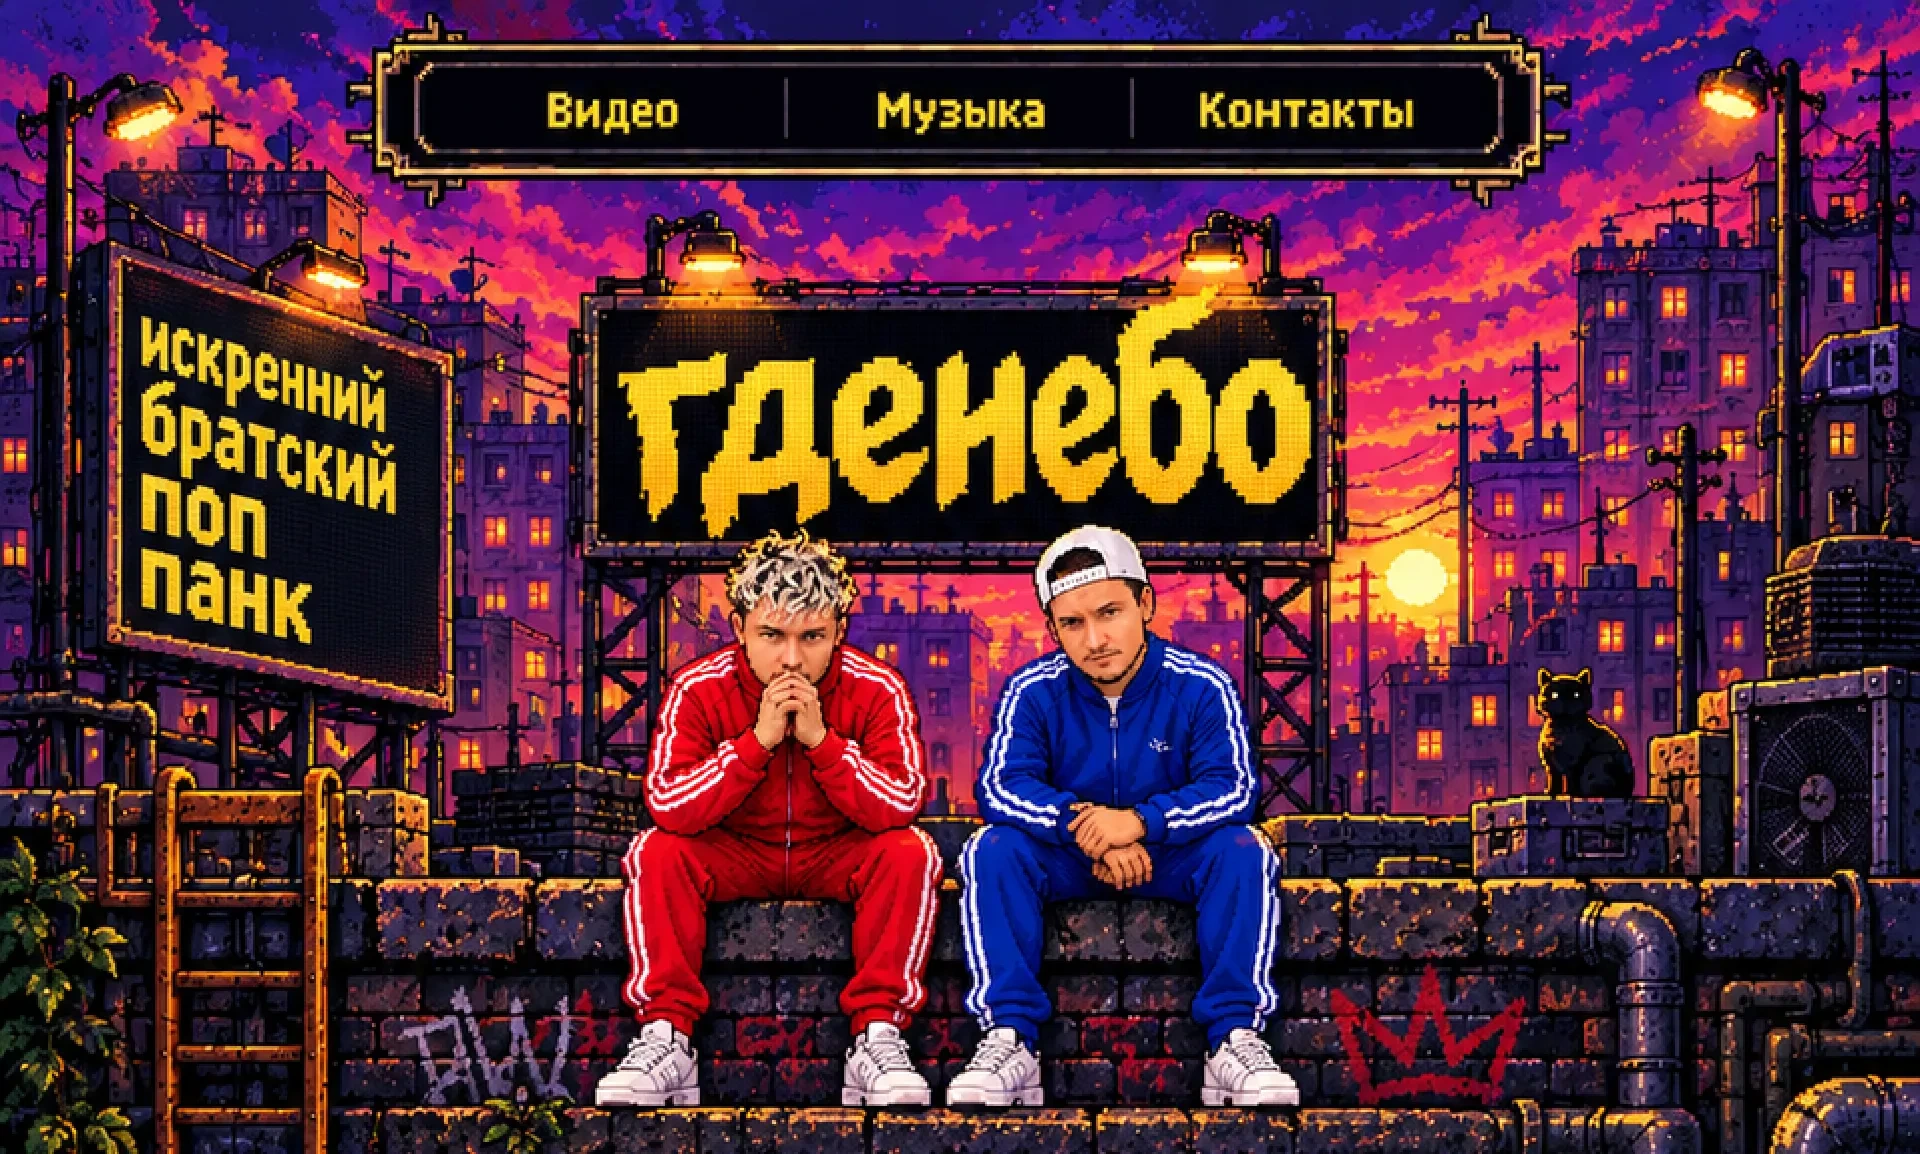
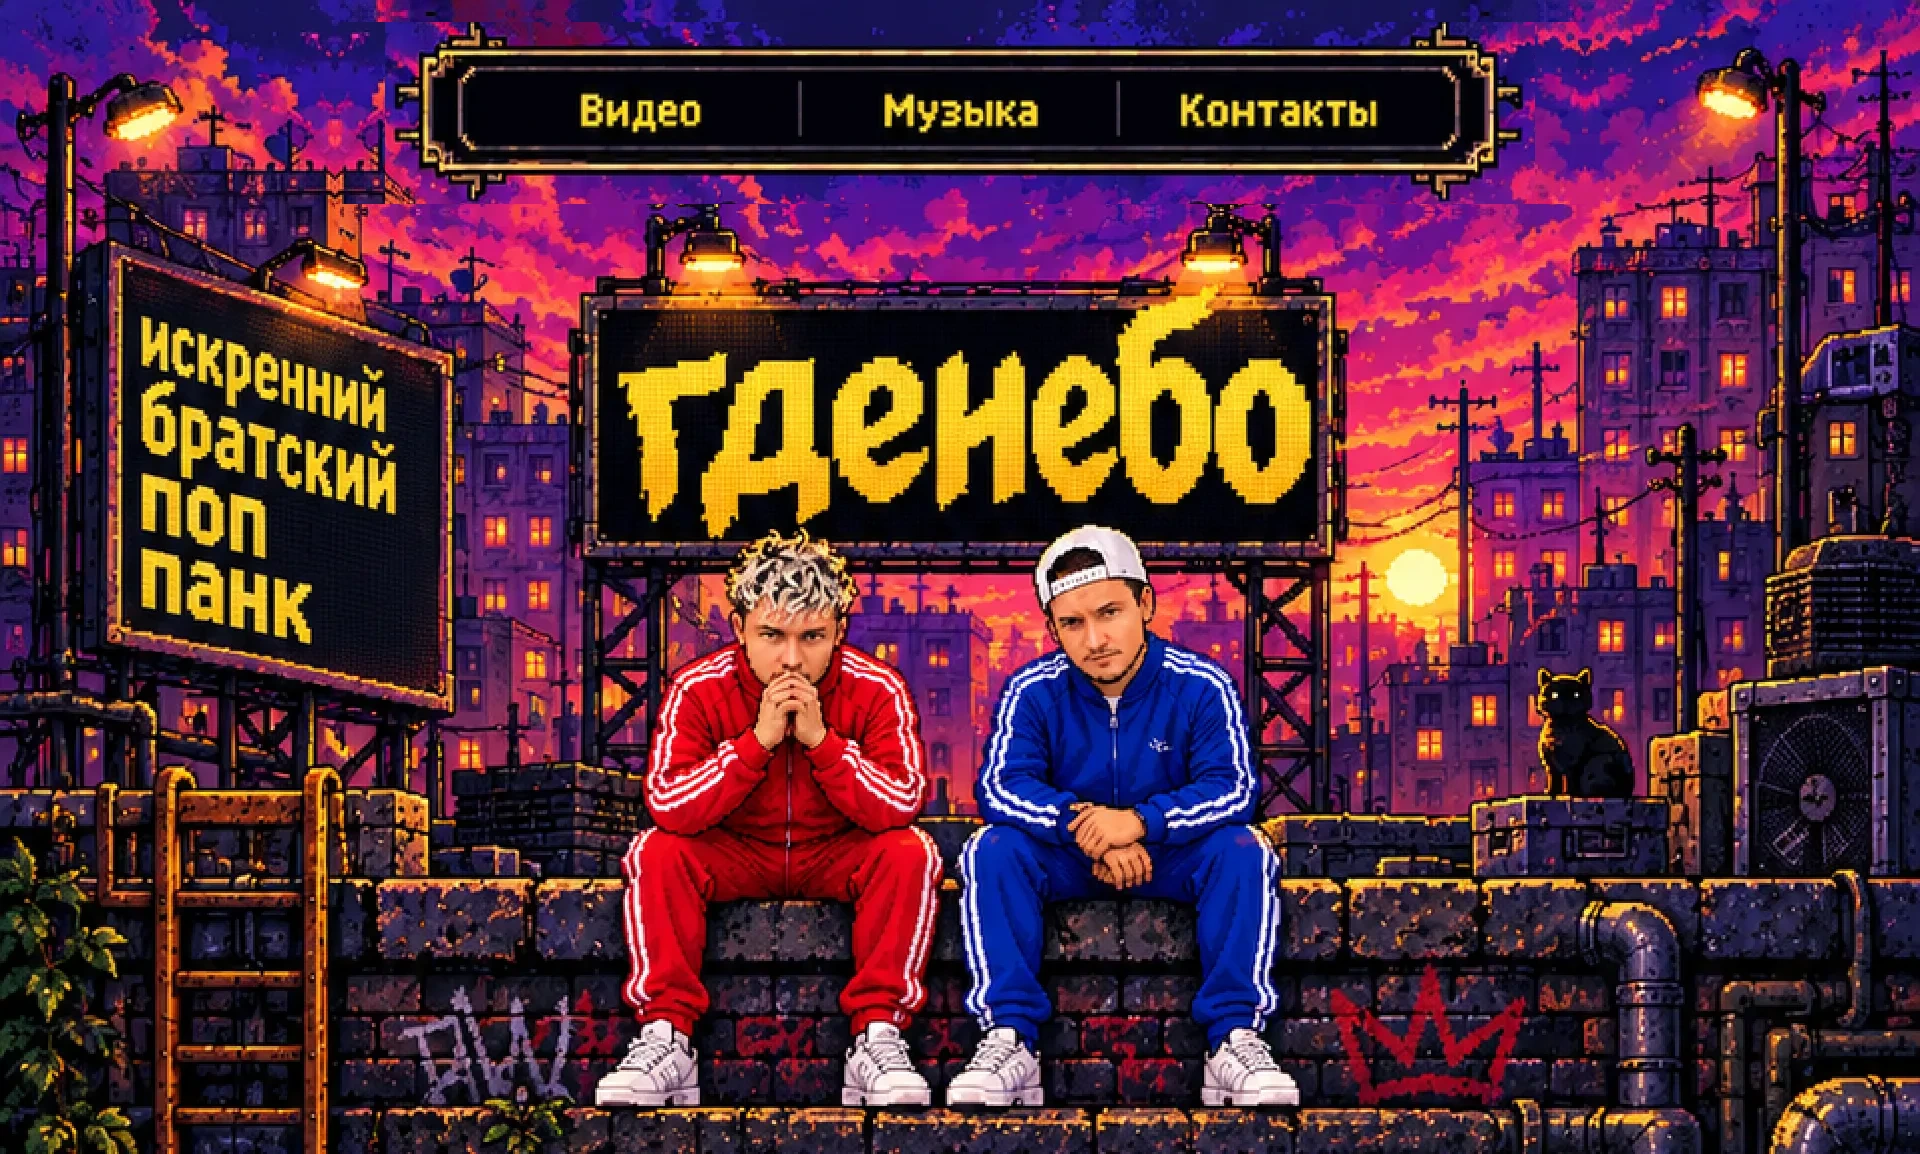
Nav: 8% smaller in the hero art, hotspots realigned, slimmer mobile bar

Changed region(s): [[0.1562, 0.0, 0.8438, 0.1872]]

diff --git a/index.html b/index.html
@@ -8,7 +8,7 @@
   <meta name="theme-color" content="#1a1030">
   <meta property="og:title" content="гденебо">
   <meta property="og:description" content="искренний братский поп-панк">
-  <meta property="og:image" content="img/hero-wide.webp?v=3">
+  <meta property="og:image" content="img/hero-wide.webp?v=4">
   <link rel="preconnect" href="https://fonts.googleapis.com">
   <link rel="preconnect" href="https://fonts.gstatic.com" crossorigin>
   <link href="https://fonts.googleapis.com/css2?family=Pixelify+Sans:wght@400;600;700&display=swap" rel="stylesheet">
@@ -31,7 +31,7 @@
   <section class="hero" id="top">
     <h1 class="sr-only">гденебо — искренний братский поп-панк</h1>
     <picture>
-      <img class="hero__img" src="img/hero-wide.webp?v=3" width="1920" height="1154"
+      <img class="hero__img" src="img/hero-wide.webp?v=4" width="1920" height="1154"
            alt="Двое участников группы гденебо в красном и синем спортивных костюмах сидят на кирпичной стене на фоне закатного города. Вывеска: гденебо — искренний братский поп-панк.">
     </picture>
     <!-- pixel-art animation layers: frame sprites, 10 fps, whole logical pixels only -->
@@ -46,9 +46,9 @@
     <i class="px px--cat" aria-hidden="true"></i>
     <!-- clickable areas over the nav drawn in the art -->
     <nav class="hot" aria-label="Основная навигация">
-      <a style="left:22.9%;width:18.1%" href="#video" aria-label="Видео"></a>
-      <a style="left:41%;width:18%" href="#music" aria-label="Музыка"></a>
-      <a style="left:59%;width:18.1%" href="#contacts" aria-label="Контакты"></a>
+      <a style="left:25.1%;width:16.6%" href="#video" aria-label="Видео"></a>
+      <a style="left:41.7%;width:16.6%" href="#music" aria-label="Музыка"></a>
+      <a style="left:58.3%;width:16.6%" href="#contacts" aria-label="Контакты"></a>
     </nav>
   </section>
   </div>

diff --git a/style.css b/style.css
@@ -36,7 +36,7 @@ p { margin: 0; }
 /* ---------- hero ---------- */
 .hero { position: relative; }
 .hero__img { width: 100%; height: auto; image-rendering: pixelated; }
-.hot a { position: absolute; top: 6.1%; height: 6.9%; border-radius: 6px; }
+.hot a { position: absolute; top: 6.9%; height: 5.7%; border-radius: 6px; }
 .hot a:focus-visible { outline: 3px solid var(--yellow); }
 .hot a:hover { background: rgba(255, 201, 51, .12); }
 
@@ -294,14 +294,14 @@ p { margin: 0; }
     padding: 8px 12px 0; pointer-events: none;
   }
   .mnav nav {
-    pointer-events: auto; max-width: 560px; margin: 0 auto; height: 44px;
+    pointer-events: auto; max-width: 480px; margin: 0 auto; height: 38px;
     display: grid; grid-template-columns: repeat(3, 1fr);
     background: rgba(10, 6, 18, .92);
     box-shadow: 0 -3px 0 #6b5a3a, 0 3px 0 #6b5a3a, -3px 0 0 #6b5a3a, 3px 0 0 #6b5a3a;
   }
   .mnav a {
     display: grid; place-items: center; color: var(--yellow); font-weight: 700;
-    font-size: clamp(14px, 3.8vw, 20px); border-left: 2px solid #3a2c18;
+    font-size: clamp(13px, 3.4vw, 18px); border-left: 2px solid #3a2c18;
   }
   .mnav a:first-child { border-left: 0; }
   .mnav a:active { background: var(--yellow); color: var(--line); }
